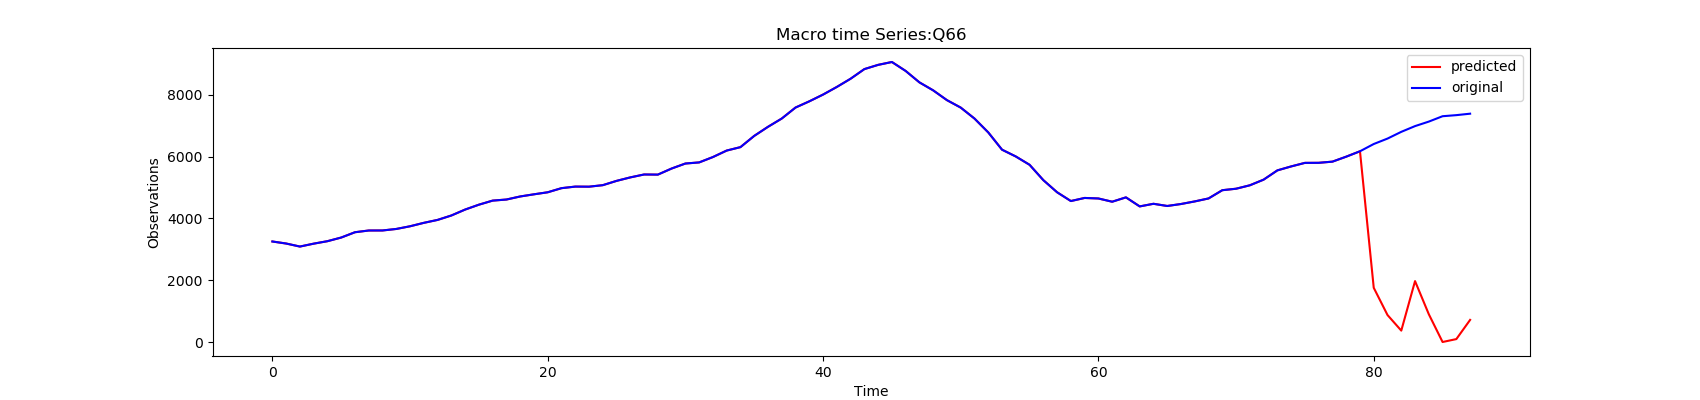
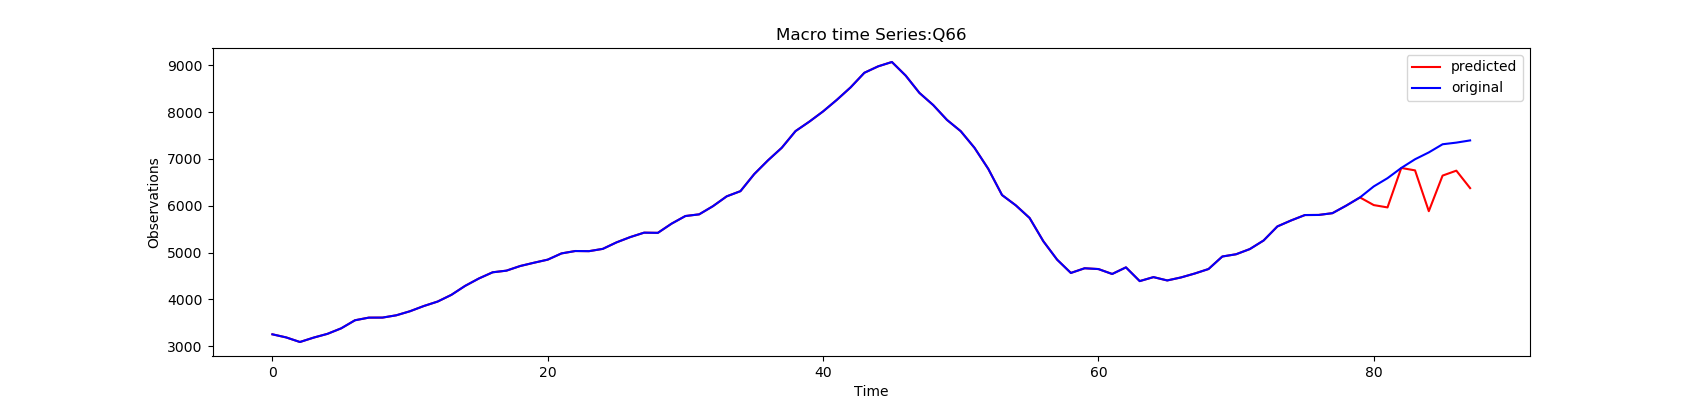
Added figures and changed learning rate

diff --git a/ts/abstract_trainer.py b/ts/abstract_trainer.py
@@ -28,8 +28,9 @@ class BaseTrainer(nn.Module):
         # self.optimizer = torch.optim.ASGD(self.model.parameters(), lr=config["learning_rate"])
         if optimizer:
             self.scheduler = torch.optim.lr_scheduler.StepLR(self.optimizer,
-                                                             step_size=config["lr_anneal_step"],
-                                                             gamma=config["lr_anneal_rate"])
+                                                              step_size=config["lr_anneal_step"],
+                                                              gamma=config["lr_anneal_rate"])
+            #self.scheduler = torch.optim.lr_scheduler.ReduceLROnPlateau(self.optimizer, patience=5, verbose=True)
         else:
             self.scheduler = None
         self.criterion = criterion
@@ -87,7 +88,19 @@ class BaseTrainer(nn.Module):
             file_path = self.csv_save_path / "grouped_results" / self.run_id / self.prod_str
             file_path_validation_loss = file_path / "validation_losses.csv"
 
-            if isclose(epoch_loss, prev_loss, rel_tol=1e-4):
+            if e == 0:
+                file_path.mkdir(parents=True, exist_ok=True)
+                with open(file_path_validation_loss, "w") as f:
+                    f.write("epoch,training_loss,validation_loss\n")
+            if e == self.max_epochs - 1 and self.model_name == MODEL_TYPE.NBEATS.value and self.plot_ts_enabled():
+                plot_stacks(self.run_id, self.figure_path, self.model)
+
+            epoch_val_loss = self.val(file_path, testing=True, debugging=False, figure_path=self.figure_path)
+            with open(file_path_validation_loss, "a") as f:
+                f.write(",".join([str(e), str(epoch_loss), str(epoch_val_loss)]) + "\n")
+            self.scheduler.step()
+
+            if isclose(epoch_val_loss, prev_loss, rel_tol=1e-4):
                 loss_repeat_counter += 1
                 if loss_repeat_counter >= max_loss_repeat:
                     print("Loss not decreasing for last {} times".format(loss_repeat_counter))
@@ -95,24 +108,16 @@ class BaseTrainer(nn.Module):
                             and self.config["sample_ids"]:
                         plot_stacks(self.run_id, self.figure_path, self.model)
 
-                    #if self.model_name == MODEL_TYPE.ESRNN.value and self.plot_ts_enabled() \
-                    #        and self.config["sample_ids"]:
-                    #    self.val(file_path, testing=True, debugging=True, figure_path=self.figure_path)
+                    if self.model_name == MODEL_TYPE.ESRNN.value and self.plot_ts_enabled() \
+                            and self.config["sample_ids"]:
+                        self.val(file_path, testing=True, debugging=True, figure_path=self.figure_path)
                     break
                 else:
                     loss_repeat_counter += 1
-            prev_loss = epoch_loss
+            prev_loss = epoch_val_loss
 
-            if e == 0:
-                file_path.mkdir(parents=True, exist_ok=True)
-                with open(file_path_validation_loss, "w") as f:
-                    f.write("epoch,training_loss,validation_loss\n")
-            if e == self.max_epochs - 1 and self.model_name == MODEL_TYPE.NBEATS.value and self.plot_ts_enabled():
-                plot_stacks(self.run_id, self.figure_path, self.model)
-            epoch_val_loss = self.val(file_path, testing=True, debugging=False, figure_path=self.figure_path)
-            with open(file_path_validation_loss, "a") as f:
-                f.write(",".join([str(e), str(epoch_loss), str(epoch_val_loss)]) + "\n")
             self.epochs += 1
+
         if self.plot_ts_enabled():
             self.plot(testing=True)
         print("Total Training in mins: %5.2f" % ((time.time() - start_time) / 60))

diff --git a/ts/es_rnn/model.py b/ts/es_rnn/model.py
@@ -2,7 +2,7 @@ import torch
 import torch.nn as nn
 
 from ts.es_rnn.DRNN import DRNN
-from ts.utils.helper_funcs import plot_levels_seasonalities
+from ts.utils.helper_funcs import plot_levels_seasonalities, plot_windows
 
 class ESRNN(nn.Module):
     def __init__(self, num_series, config):
@@ -28,6 +28,8 @@ class ESRNN(nn.Module):
         self.nl_layer = nn.Linear(config["state_hsize"],
                                   config["state_hsize"])
         self.act = nn.Tanh()
+        self.dropout_1 = nn.Dropout(0.2)
+        self.dropout_2 = nn.Dropout(0.2)
         self.scoring = nn.Linear(config["state_hsize"], config["output_size"])
 
         self.logistic = nn.Sigmoid()
@@ -124,6 +126,10 @@ class ESRNN(nn.Module):
         window_input = torch.cat([i.unsqueeze(0) for i in window_input_list], dim=0)
         window_output = torch.cat([i.unsqueeze(0) for i in window_output_list], dim=0)
 
+        if debugging:
+            plot_windows(window_input, window_output, figure_path)
+
+
         self.train()
         network_pred = self.series_forward(window_input[:-self.config["output_size"]])
         network_act = window_output
@@ -151,9 +157,11 @@ class ESRNN(nn.Module):
 
     def series_forward(self, data):
         data = self.resid_drnn(data)
+        data = self.dropout_1(data)
         if self.add_nl_layer:
             data = self.nl_layer(data)
             data = self.act(data)
+            data = self.dropout_2(data)
         data = self.scoring(data)
         return data
 
@@ -171,9 +179,10 @@ class ResidualDRNN(nn.Module):
             else:
                 input_size = self.config["state_hsize"]
 
+            n_layers = len(self.config["dilations"][grp_num])
             l = DRNN(input_size,
                      self.config["state_hsize"],
-                     n_layers=len(self.config["dilations"][grp_num]),
+                     n_layers=n_layers,
                      dilations=self.config["dilations"][grp_num],
                      cell_type=self.config["rnn_cell_type"])
 

diff --git a/ts/utils/helper_funcs.py b/ts/utils/helper_funcs.py
@@ -289,7 +289,7 @@ def plot_block_ts(ax, block):
     ax.set_autoscaley_on(True)
 
 
-def plot_ts(run_id, original_ts, predicted_ts, ts_labels, cats, path, number_to_plot=1):
+def plot_ts(original_ts, predicted_ts, ts_labels, cats, path, number_to_plot=1):
     path.mkdir(parents=True, exist_ok=True)
     fig, axes = plt.subplots(1, number_to_plot, figsize=(17, 4))
     plt.subplots_adjust(hspace=.3)
@@ -344,6 +344,34 @@ def plot_levels_seasonalities(train, levels, seasonalities, path=None):
     ax[1].set_xlim([0, np.amax(x_seasonalities) + 1])
     ax[1].set_ylim([ymin, ymax])
     plt.savefig(path / "levels_seasonalities.png")
+    plt.tight_layout()
+    sns.despine()
+    plt.show()
+
+
+def plot_windows(window_input, window_output, path=None):
+    path.mkdir(parents=True, exist_ok=True)
+    fig, ax = plt.subplots(1, 2, figsize=(17, 4))
+    backcasts = window_input.squeeze(1).cpu().detach().numpy()
+    forecasts = window_output.squeeze(1).cpu().detach().numpy()
+    y_backcast_values = []
+    for i in range(backcasts.shape[0]):
+        y_backcast_values.extend(backcasts[i, :].tolist())
+    y_forecast_values = []
+    for i in range(forecasts.shape[0]):
+        y_forecast_values.extend(forecasts[i, :].tolist())
+
+    x_values = np.arange(len(y_backcast_values))
+    ax[0].plot(x_values, np.array(y_backcast_values), "b-")
+    ax[0].set_xlabel("Time")
+    ax[0].set_ylabel("Observations")
+    ax[0].set_title("Backcast: normalization and deseasonalization")
+    x_values = np.arange(len(y_forecast_values))
+    ax[1].set_title("Forecast: normalization and deseasonalization")
+    ax[1].plot(x_values, np.array(y_forecast_values), "r-")
+    ax[1].set_xlabel("Time")
+    ax[1].set_ylabel("Observations")
+    plt.savefig(path / "windows.png")
     plt.tight_layout()
     sns.despine()
     plt.show()

diff --git a/ts/es_rnn/config.py b/ts/es_rnn/config.py
@@ -12,8 +12,9 @@ def get_config(interval):
         "percentile": 50,
         "training_percentile": 45,
         "add_nl_layer": True,
-        "rnn_cell_type": "LSTM",
-        "learning_rate": 1e-3,
+        "rnn_cell_type": "GRU",
+        "learning_rate": 1e-1,
+        #"learning_rate": 1e-3,
         "learning_rates": ((10, 1e-4)),
         "num_of_train_epochs": 100,
         "num_of_train_epochs_sampling": 100,
@@ -32,7 +33,7 @@ def get_config(interval):
         "sample": True,
         "reload": SAVE_LOAD_TYPE.NO_ACTION,
         "add_run_id": False,
-        "save_model": SAVE_LOAD_TYPE.NO_ACTION,
+        "save_model": SAVE_LOAD_TYPE.MODEL_PARAMETERS,
         "plot_ts": True
     }
 
@@ -46,7 +47,7 @@ def get_config(interval):
             "input_size": 4,
             "output_size": 8,
             "level_variability_penalty": 80,
-            #"sample_ids": [],
+            "sample_ids": [],
             "sample_ids": ["Q90"],
             #"sample_ids": ["Q66"],
         })

diff --git a/ts/es_rnn/trainer.py b/ts/es_rnn/trainer.py
@@ -28,7 +28,6 @@ class ESRNNTrainer(BaseTrainer):
         loss.backward()
         nn.utils.clip_grad_value_(self.model.parameters(), self.config["gradient_clipping"])
         self.optimizer.step()
-        self.scheduler.step()
         return float(loss)
 
     def val(self, file_path, testing, debugging, figure_path):
@@ -108,5 +107,5 @@ class ESRNNTrainer(BaseTrainer):
                                                                         testing=testing)
             original_ts = torch.cat((train, hold_out_act), axis=1)
             predicted_ts = torch.cat((train, hold_out_pred), axis=1)
-            plot_ts(self.run_id, original_ts, predicted_ts, ts_labels, cats, self.figure_path,
+            plot_ts(original_ts, predicted_ts, ts_labels, cats, self.figure_path,
                     number_to_plot=train.shape[0])

diff --git a/ts/es_rnn/main.py b/ts/es_rnn/main.py
@@ -12,7 +12,7 @@ from ts.es_rnn.model import ESRNN
 from ts.es_rnn.trainer import ESRNNTrainer
 from ts.utils.data_loading import SeriesDataset
 from ts.utils.helper_funcs import MODEL_TYPE, set_seed, create_datasets, generate_timeseries_length_stats, \
-    filter_timeseries, SAVE_LOAD_TYPE
+    filter_timeseries
 
 set_seed(0)
 
